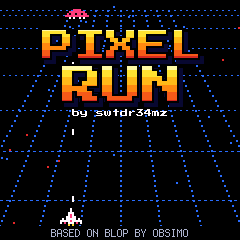
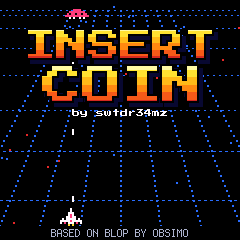
Renamed: INSERT COIN
The name everywhere: the intro's title, the app's and USB name, the build's files
(insertcoin.fwsc), the README, credits and the hub's texts.

Claude-Session: https://claude.ai/code/session_019gwqiNvxJGB1tdsJbkVLN4

Changed region(s): [[0.1167, 0.1167, 0.9333, 0.4667]]

diff --git a/dsp/engine.h b/dsp/engine.h
@@ -1,6 +1,6 @@
 /* SPDX-License-Identifier: GPL-3.0-only
  * Copyright (C) 2026 Obsimo (OSR Records) */
-/* OSR-1 sound engine (PIXEL RUN: chip waveforms, chip drums, a bitcrusher, a drum preview for the studio):
+/* OSR-1 sound engine (INSERT COIN: chip waveforms, chip drums, a bitcrusher, a drum preview for the studio):
  * 4 chord voices (sub / FM / plucked string) with strum, a resonant filter, envelopes,
  * a 16-step chord-rhythm sequencer with groove (swing, density, gate), a bass with its own sounds and motifs,
  * a small drum kit (kick, hi-hat, rim) on 16-step patterns with a kit per style, sidechain, tremolo,
@@ -12,7 +12,7 @@
 #define ENG_SR 44100.0f
 
 enum { ENGINE_SUB, ENGINE_FM, ENGINE_PLUCK };
-/* the sub engine's waveforms: the classic four, then the chip ones (PIXEL RUN): pulses of 12.5 % and 25 % (W_SQUARE is the
+/* the sub engine's waveforms: the classic four, then the chip ones (INSERT COIN): pulses of 12.5 % and 25 % (W_SQUARE is the
  * 50 % one), the 4-bit stepped triangle of the 8-bit consoles, two 32-step 4-bit wavetables (a handheld's wave channel: warm,
  * and a nasal "voice"), a 16-step saw (a home computer's) and a pulse whose width sweeps (PWM: sound_t pwm, pwm_rate) */
 enum { W_SAW, W_SQUARE, W_TRI, W_SINE, W_P12, W_P25, W_NTRI, W_WAVE, W_VOICE, W_CSAW, W_PWM };

diff --git a/dsp/engine.c b/dsp/engine.c
@@ -1,6 +1,6 @@
 /* SPDX-License-Identifier: GPL-3.0-only
  * Copyright (C) 2026 Obsimo (OSR Records) */
-/* OSR-1 sound engine (PIXEL RUN: the chip waveforms, drums and bitcrusher). See engine.h. Single precision only (the FM-1's FPU), no double.
+/* OSR-1 sound engine (INSERT COIN: the chip waveforms, drums and bitcrusher). See engine.h. Single precision only (the FM-1's FPU), no double.
  * The render works in chunks of 32 frames: pitches, the filter coefficient and the LFOs are updated per chunk,
  * envelopes, oscillators and effects per sample. */
 #include "engine.h"
@@ -168,7 +168,7 @@ static struct {
     float lglide, lvib, ld_tgt, ld_vph, ld_vamt;   /* the melody's glide (s) and vibrato, its target pitch, the LFO */
     uint32_t lr_w[4], lr_apw0, lr_apw1;
     float lr_lp[4], lr_ph[4], lr_en;
-    /* PIXEL RUN: the chip sounds' pitch drop (chords, melody), the PWM's phase, the bitcrusher, the drum preview,
+    /* INSERT COIN: the chip sounds' pitch drop (chords, melody), the PWM's phase, the bitcrusher, the drum preview,
      * the chip drums' noise (two shift registers, each with its clock) */
     float swp, ld_swp, pwm_ph, crush, cr_hold_l, cr_hold_r, cr_left;
     uint8_t preview;

diff --git a/app.h b/app.h
@@ -1,7 +1,7 @@
 /* SPDX-License-Identifier: GPL-3.0-only
  * Copyright (C) 2026 Obsimo (OSR Records)
- * Copyright (C) 2026 swtdr34mz (PIXEL RUN) */
-/* PIXEL RUN by swtdr34mz (CHORD RUN's chiptune sibling, based on BLOP by Obsimo): game-style chord progressions on the black
+ * Copyright (C) 2026 swtdr34mz (INSERT COIN) */
+/* INSERT COIN by swtdr34mz (CHORD RUN's chiptune sibling, based on BLOP by Obsimo): game-style chord progressions on the black
  * keys, a melody on the white ones, chip sounds and drums, a drum studio, a looper and a runner that runs while you play,
  * for the M-VAVE FM-1 (on fm1-base).
  * This header is the app's half of the contract with the platform (device/unity.c, host/plat_host.c). */
@@ -9,7 +9,7 @@
 #include <stdint.h>
 #include "plat.h"
 
-#define APP_NAME "PIXEL RUN"
+#define APP_NAME "INSERT COIN"
 #define APP_SPLASH_RGB RGB(255, 200, 40)
 #define APP_SPLASH                      /* app_splash: the intro's first picture, not the platform's white page */
 #define APP_TICK                        /* app_tick: the MIDI in, each clock timed to the ms */

diff --git a/tools/gen_title.py b/tools/gen_title.py
@@ -1,7 +1,7 @@
 #!/usr/bin/env python3
 # SPDX-License-Identifier: GPL-3.0-only
 # Copyright (C) 2026 swtdr34mz
-"""The intro's title, PIXEL over RUN in Press Start 2P (SIL OFL 1.1, assets/fonts): a 90s arcade title, each of the type's
+"""The intro's title, INSERT over COIN in Press Start 2P (SIL OFL 1.1, assets/fonts): a 90s arcade title, each of the type's
 pixels drawn 4 x 4, a black outline 2 px round it and a dark drop shadow; rasterised at build time into 4 bits a pixel
 (240 wide): 15 the face (app.c paints it in a gradient, row by row), 1 the outline, 2 the shadow, 0 nothing. And
 "by swtdr34mz" small in the same type. Run by the build (fm1.toml gen): tools/gen_title.py --out GEN/title_data.h"""
@@ -23,7 +23,7 @@ def line(text, scale):
     return im.resize((im.size[0] * scale, im.size[1] * scale), Image.NEAREST)
 
 
-a, b = line("PIXEL", SCALE), line("RUN", SCALE + 1)
+a, b = line("INSERT", SCALE), line("COIN", SCALE + 1)
 pad = OUTLINE + SHADOW
 h = a.size[1] + GAP + b.size[1] + 2 * pad
 face = Image.new("1", (240, h), 0)

diff --git a/app.c b/app.c
@@ -1,8 +1,8 @@
 /* SPDX-License-Identifier: GPL-3.0-only
  * Copyright (C) 2026 Obsimo (OSR Records)
- * Copyright (C) 2026 swtdr34mz (CHORD RUN: the sets, the melody, the runner, missions, the loop; PIXEL RUN: the chip sets,
+ * Copyright (C) 2026 swtdr34mz (CHORD RUN: the sets, the melody, the runner, missions, the loop; INSERT COIN: the chip sets,
  * the drum studio, the 8-bar loop, the pixel screens) */
-/* PIXEL RUN (CHORD RUN's chiptune sibling, based on BLOP by Obsimo): input, pages, the game sets, the melody, the drums and
+/* INSERT COIN (CHORD RUN's chiptune sibling, based on BLOP by Obsimo): input, pages, the game sets, the melody, the drums and
  * the DRUM STUDIO, the runner and its missions, the loop, the screen, settings. Part of the unity build (device/unity.c,
  * host/plat_host.c), after the platform: gfx.c and announce.c are in scope. The sound is dsp/engine.c.
  *

diff --git a/data.h b/data.h
@@ -1,7 +1,7 @@
 /* SPDX-License-Identifier: GPL-3.0-only
  * Copyright (C) 2026 Obsimo (OSR Records)
- * Copyright (C) 2026 swtdr34mz (PIXEL RUN: the chip sounds, the game sets) */
-/* PIXEL RUN data: the sounds (chip waveforms and 16-bit FM), the chord rhythms, and the 20 sets: chord progressions in the
+ * Copyright (C) 2026 swtdr34mz (INSERT COIN: the chip sounds, the game sets) */
+/* INSERT COIN data: the sounds (chip waveforms and 16-bit FM), the chord rhythms, and the 20 sets: chord progressions in the
  * style of famous video game tunes, under names of their own (no game's or company's name). Written by hand. */
 #pragma once
 static const char *const FAMILY_NAME[4] = {"PULSE", "WAVE", "COMPUTER", "16-BIT FM"};

diff --git a/patterns.h b/patterns.h
@@ -1,7 +1,7 @@
 /* SPDX-License-Identifier: GPL-3.0-only
  * Copyright (C) 2026 Obsimo (OSR Records)
- * Copyright (C) 2026 swtdr34mz (PIXEL RUN: the chip kits and grooves) */
-/* PIXEL RUN: the drum kits (8-bit and 16-bit consoles), the 20 built-in grooves, the bass sounds and riffs. Written by hand.
+ * Copyright (C) 2026 swtdr34mz (INSERT COIN: the chip kits and grooves) */
+/* INSERT COIN: the drum kits (8-bit and 16-bit consoles), the 20 built-in grooves, the bass sounds and riffs. Written by hand.
  * The DRUM STUDIO keeps 20 grooves of the player's own beside them (app.c, kept in the flash). */
 #pragma once
 

diff --git a/README.md b/README.md
@@ -1,4 +1,4 @@
-# PIXEL RUN
+# INSERT COIN
 
 A firmware for the M-VAVE FM-1 by **swtdr34mz**: the chiptune sibling of
 [CHORD RUN](https://github.com/swtdr34mz-afk/CHORD_RUN), based on [Blop / OSR-1](https://github.com/OSR-Experiment/OSR-1)
@@ -11,7 +11,7 @@ fires on every key you play.
 
 **Play it in the browser:** https://swtdr34mz-afk.github.io/PIXEL_RUN/emu/ (the same firmware, built for the browser).
 
-![PIXEL RUN](site/img/screen-main.png) ![DRUM STUDIO](site/img/screen-studio.png)
+![INSERT COIN](site/img/screen-main.png) ![DRUM STUDIO](site/img/screen-studio.png)
 
 ## What it does
 
@@ -101,9 +101,9 @@ Locally (Linux x86-64), the simulator and its tests (the screens' pixel type is 
 
     git clone --recursive https://github.com/swtdr34mz-afk/PIXEL_RUN && cd PIXEL_RUN
     X0X_FONTSET=terminus python3 fm1-base/tools/build.py . --host
-    build/host/pixelrun_host tests/basic.txt build/host     # sets, sounds, crush, the drum studio, the loop
-    build/host/pixelrun_host tests/run.txt build/host       # the run, a mission, the progress kept
-    build/host/pixelrun_host tests/melody.txt build/host    # the melody follows the chords
+    build/host/insertcoin_host tests/basic.txt build/host     # sets, sounds, crush, the drum studio, the loop
+    build/host/insertcoin_host tests/run.txt build/host       # the run, a mission, the progress kept
+    build/host/insertcoin_host tests/melody.txt build/host    # the melody follows the chords
 
 ## Licence and credits
 

diff --git a/CREDITS.md b/CREDITS.md
@@ -1,7 +1,7 @@
 # Credits
 
-PIXEL RUN by swtdr34mz: CHORD RUN's chiptune sibling, based on OSR-1 / Blop by Obsimo (OSR Records), under GPL-3.0-only.
-PIXEL RUN's own parts: the 20 game-style sets (chord progressions written by ear, under names of their own), the chip
+INSERT COIN by swtdr34mz: CHORD RUN's chiptune sibling, based on OSR-1 / Blop by Obsimo (OSR Records), under GPL-3.0-only.
+INSERT COIN's own parts: the 20 game-style sets (chord progressions written by ear, under names of their own), the chip
 waveforms and sounds, the chip drums and their 20 grooves, the DRUM STUDIO, the bitcrusher, the 8-bar loop and the pixel
 screens. From CHORD RUN (swtdr34mz): the melody voice, the runner, missions and the loop.
 
